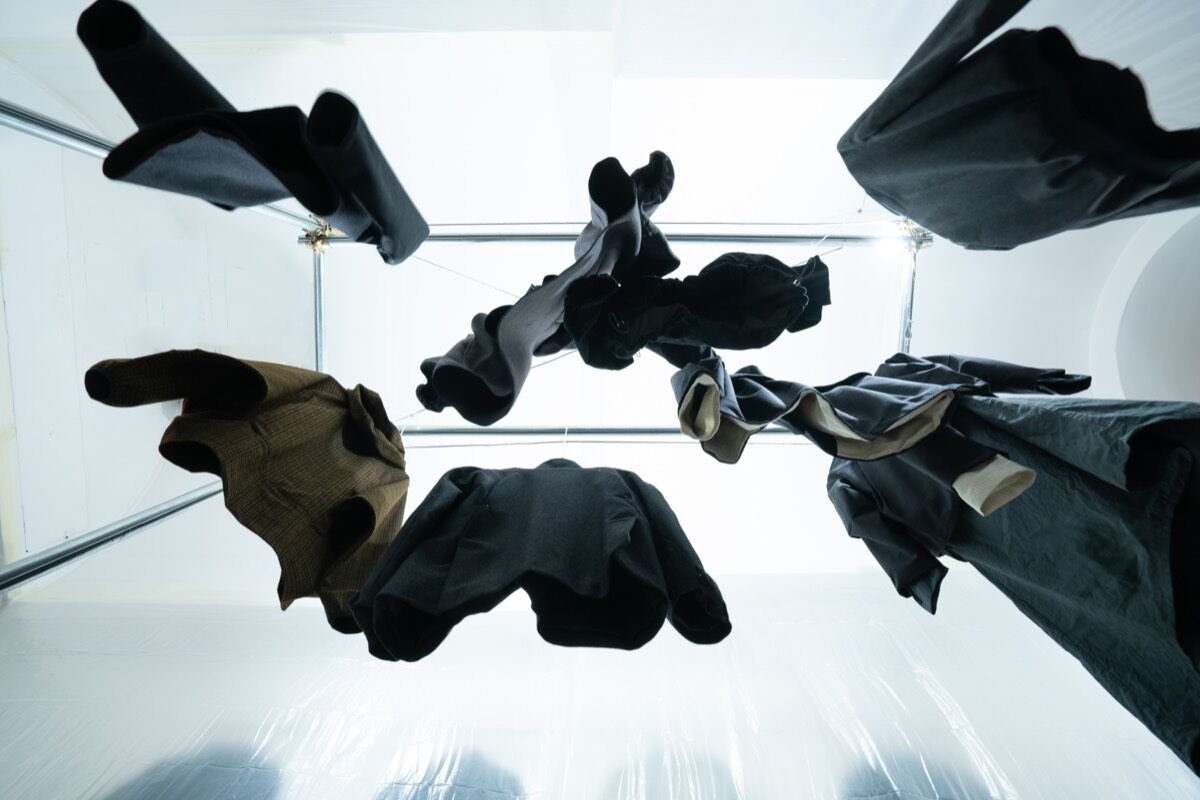
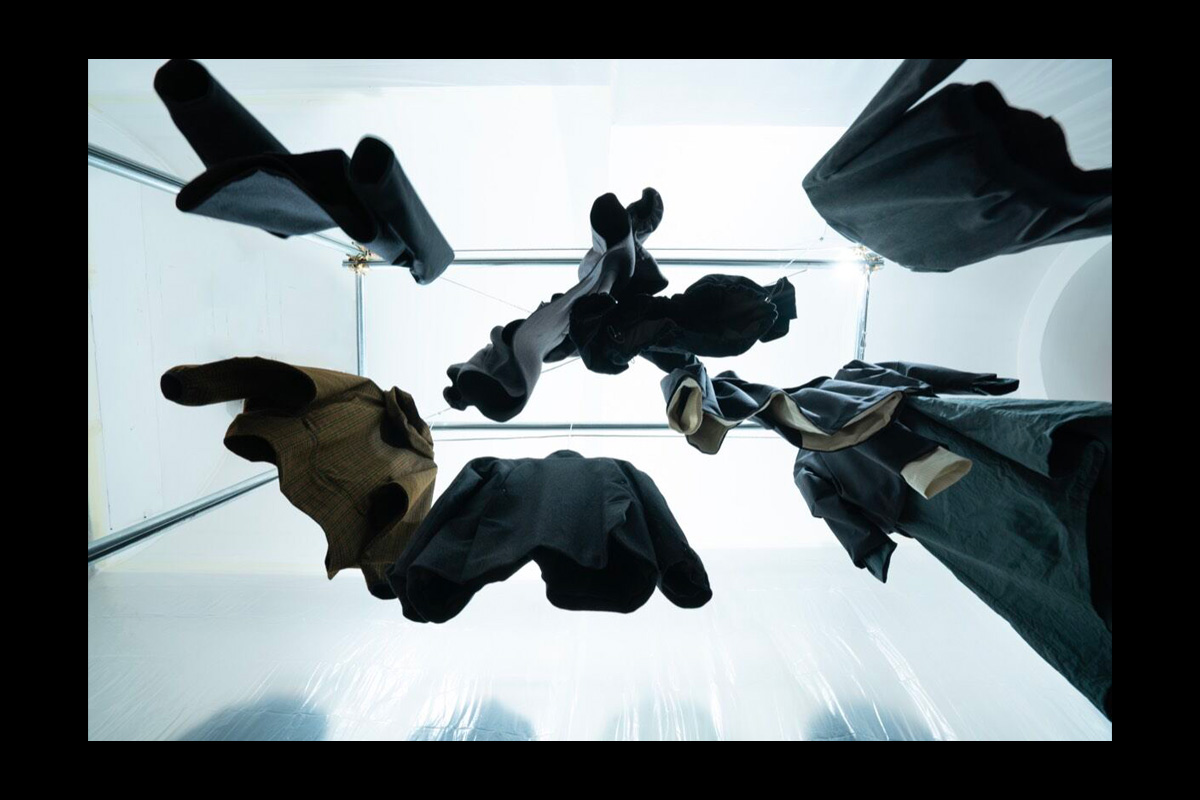
contatti aggiornati + fenced city ultima wide + uriel 4 foto

diff --git a/index.html b/index.html
@@ -55,6 +55,18 @@
     .ml:hover{opacity:.4}
     .mi{font-family:var(--f);font-size:9px;letter-spacing:.1em;color:var(--ft);vertical-align:super;margin-right:16px}
 
+    /* CONTACTS in fondo al menu */
+    .menu-contacts{
+      position:absolute;bottom:32px;left:var(--p);right:var(--p);
+      opacity:0;transition:opacity .5s .3s;
+    }
+    #menu.on .menu-contacts{opacity:1}
+    .mc-label{font-size:9px;letter-spacing:.2em;color:var(--dm);margin-bottom:16px}
+    .mc-grid{display:grid;grid-template-columns:1fr 1fr;gap:24px;font-size:10px;letter-spacing:.1em;line-height:1.9}
+    .mc-grid a{color:var(--wh);text-decoration:none;transition:opacity .2s}
+    .mc-grid a:hover{opacity:.5}
+    @media(max-width:600px){.mc-grid{grid-template-columns:1fr;gap:14px}.menu-contacts{bottom:20px}}
+
     /* SECTIONS */
     .sec{position:fixed;inset:0;opacity:0;pointer-events:none;transition:opacity .5s;overflow:hidden}
     .sec.on{opacity:1;pointer-events:all;z-index:10}
@@ -280,6 +292,19 @@
     <div class="mr"><button class="ml ct" onclick="navTo('po')"><span class="mi">02</span>PRIVATE ORDER</button></div>
     <div class="mr"><button class="ml ct" onclick="navTo('archive')"><span class="mi">03</span>ARCHIVE</button></div>
     <div class="mr"><button class="ml ct" onclick="navTo('special')"><span class="mi">04</span>SPECIAL PROJECTS</button></div>
+    <div class="menu-contacts">
+      <div class="mc-label">CONTACTS</div>
+      <div class="mc-grid">
+        <div>
+          <a href="mailto:[email redacted]">[email redacted]</a><br>
+          <a href="mailto:[email redacted]">[email redacted]</a>
+        </div>
+        <div>
+          <a href="https://instagram.com/theofanfoni" target="_blank">@THEOFANFONI</a><br>
+          <a href="https://www.instagram.com/st.udio.4/" target="_blank">@ST.UDIO.4</a>
+        </div>
+      </div>
+    </div>
   </div>
 
   <section class="sec on" id="home">
@@ -322,7 +347,7 @@
       <div class="po-t">EACH PIECE IS MADE TO ORDER. FABRICS ARE SELECTED, MEASUREMENTS ARE TAKEN, AND EVERY DETAIL IS DECIDED TOGETHER TO CREATE A ONE-OF-ONE GARMENT MADE EXCLUSIVELY FOR YOU.</div>
       <div class="po-links">
         <a href="https://instagram.com/theofanfoni" target="_blank" class="po-btn ct"><span>WRITE ON INSTAGRAM</span><span class="ar">&#8594;</span></a>
-        <a href="mailto:[email redacted]" class="po-btn ct"><span>[email redacted]</span><span class="ar">&#8594;</span></a>
+        <a href="mailto:[email redacted]" class="po-btn ct"><span>[email redacted]</span><span class="ar">&#8594;</span></a>
       </div>
     </div>
   </section>
@@ -380,12 +405,12 @@ const PROJECTS = [
 
   { folder:'fenced_city', name:'FENCED CITY CAPSULE COLLECTION',
     meta:['_FENCED CITY','CAPSULE COLLECTION','ART DIRECTION / FASHION DESIGN','ROMA \'25'],
-    files:['fenced_city_1.jpg','fenced_city7.jpg','fenced_city9.jpg','fenced_city10.jpg','fenced_city11.jpg'],
-    firstWide:true },
+    files:['fenced_city7.jpg','fenced_city9.jpg','fenced_city10.jpg','fenced_city11.jpg','fenced_city_1.jpg'],
+    lastWide:true },
 
   { folder:'uriel', name:'URIEL',
     meta:['_URIEL','FASHION DESIGN','2024'],
-    files:['uriel_1.jpg'],
+    files:['uriel_1.jpg','uriel1.jpg','uriel2.jpg','uriel3.jpg'],
     firstWide:true },
 
   { folder:'studio4', name:'ST.4 SHOWROOM',
@@ -627,8 +652,9 @@ function openDetail(p){
   } else {
     files.forEach((filename, i) => {
       const d = document.createElement('div');
-      // Prima foto larga se firstWide=true, altrimenti tutte a 2 colonne
-      const isWide = (p.firstWide && i === 0);
+      // firstWide: prima foto piena larghezza
+      // lastWide:  ultima foto piena larghezza
+      const isWide = (p.firstWide && i === 0) || (p.lastWide && i === files.length - 1);
       d.className = 'ad-media' + (isWide ? ' wide' : '');
       d.innerHTML = `<img data-src="${p.folder}/${filename}" alt="${p.name} ${i+1}">`;
       stack.appendChild(d);
@@ -656,17 +682,18 @@ function buildFooter(){
       <div class="ft-grid">
         <div class="ft-col">
           <div class="ft-label">STUDIO</div>
-          VIA STATILIA 4<br>ROMA
+          BASED IN<br>
+          VIA STATILIA 4, ROME<br>
+          <a href="mailto:[email redacted]">[email redacted]</a>
         </div>
         <div class="ft-col">
           <div class="ft-label">CONNECT</div>
-          <a href="https://wa.me/" target="_blank">WHATSAPP</a><br>
-          <a href="mailto:[email redacted]">[email redacted]</a>
+          <a href="mailto:[email redacted]">[email redacted]</a>
         </div>
         <div class="ft-col">
-          <div class="ft-label">FOLLOW</div>
-          <a href="https://instagram.com/${IG}" target="_blank">INSTAGRAM</a><br>
-          <a href="https://www.instagram.com/st.udio.4/" target="_blank">ST.UDIO.4 INSTAGRAM</a>
+          <div class="ft-label">SOCIAL</div>
+          <a href="https://instagram.com/theofanfoni" target="_blank">@THEOFANFONI</a><br>
+          <a href="https://www.instagram.com/st.udio.4/" target="_blank">@ST.UDIO.4</a>
         </div>
       </div>
     </div>`;